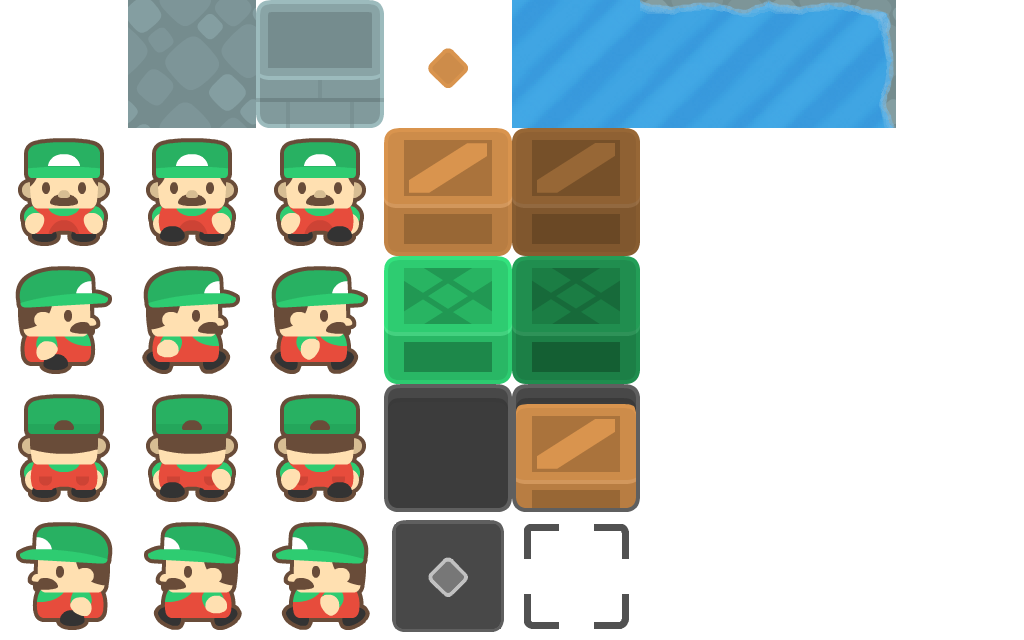
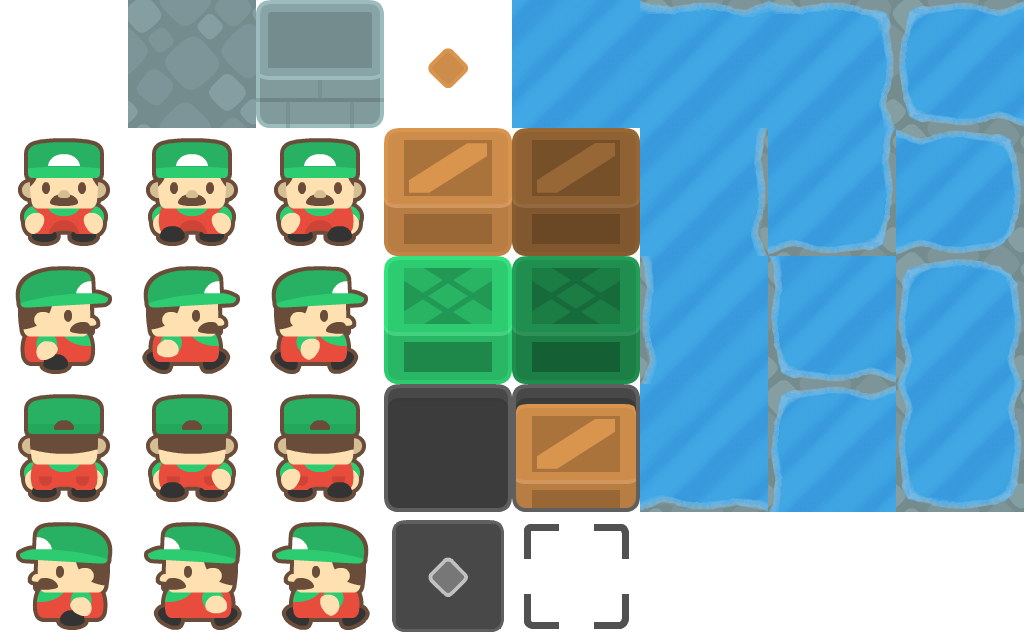
added support for multiple ice ground tiles

Changed region(s): [[0.625, 0.0, 1.0, 0.8125]]

diff --git a/Sokoban/SokobanContentPipeline/TiledMapProcessor.cs b/Sokoban/SokobanContentPipeline/TiledMapProcessor.cs
@@ -34,7 +34,7 @@ namespace SokobanContentPipeline
         public int HoleId { get; set; } = 27;
 
         public int WallId { get; set; } = 2;
-        public int IceGroundId { get; set; } = 4;
+        public int[] IceGroundIds { get; set; } = { 4, 5, 6, 7, 13, 14, 15, 21, 22, 23, 29, 30, 31 };
         public int SwitchId { get; set; } = 3;
 
         public override TiledMapProcessorOutput Process(TiledMapFile input, ContentProcessorContext context)
@@ -171,8 +171,14 @@ namespace SokobanContentPipeline
                         {
                             for (int j = 0; j < output.Height; j++)
                             {
-                                if (layer.Data[i, j] - 1 == IceGroundId)
-                                    output.Room.Walls[i, j] = 2;
+                                for (int k = 0; k < IceGroundIds.Length; k++)
+                                {
+                                    if (layer.Data[i, j] - 1 == IceGroundIds[k])
+                                    {
+                                        output.Room.Walls[i, j] = 2;
+                                        break;
+                                    }
+                                }
                             }
                         }
 
